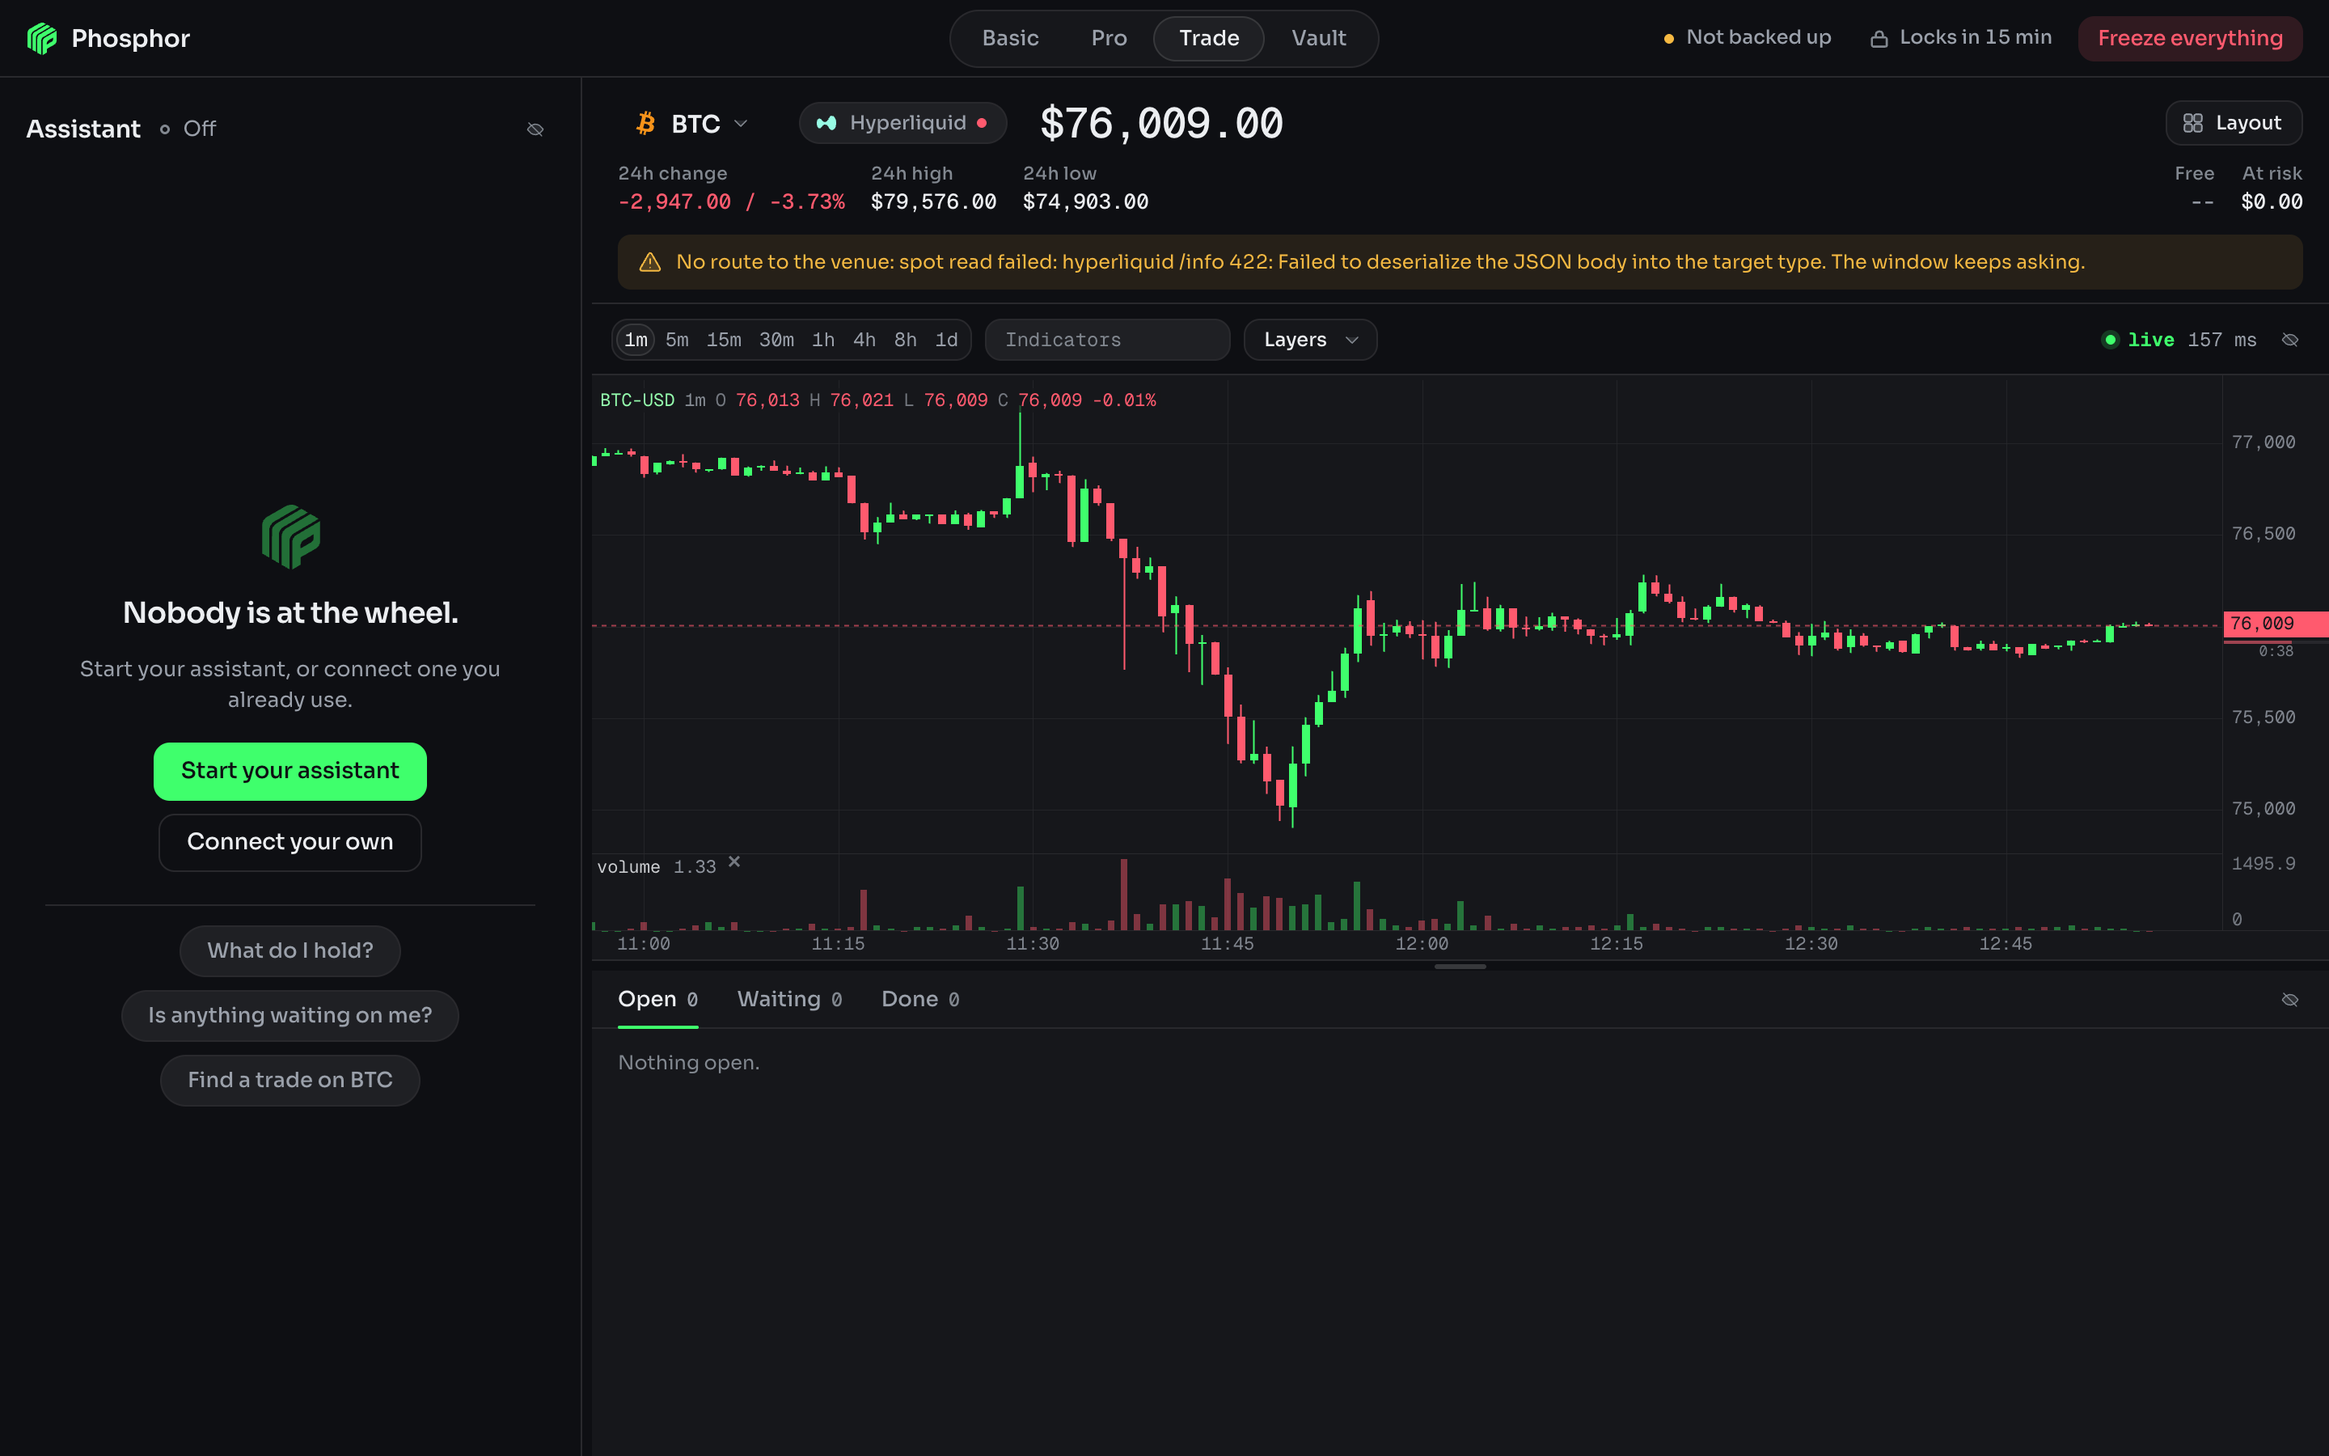
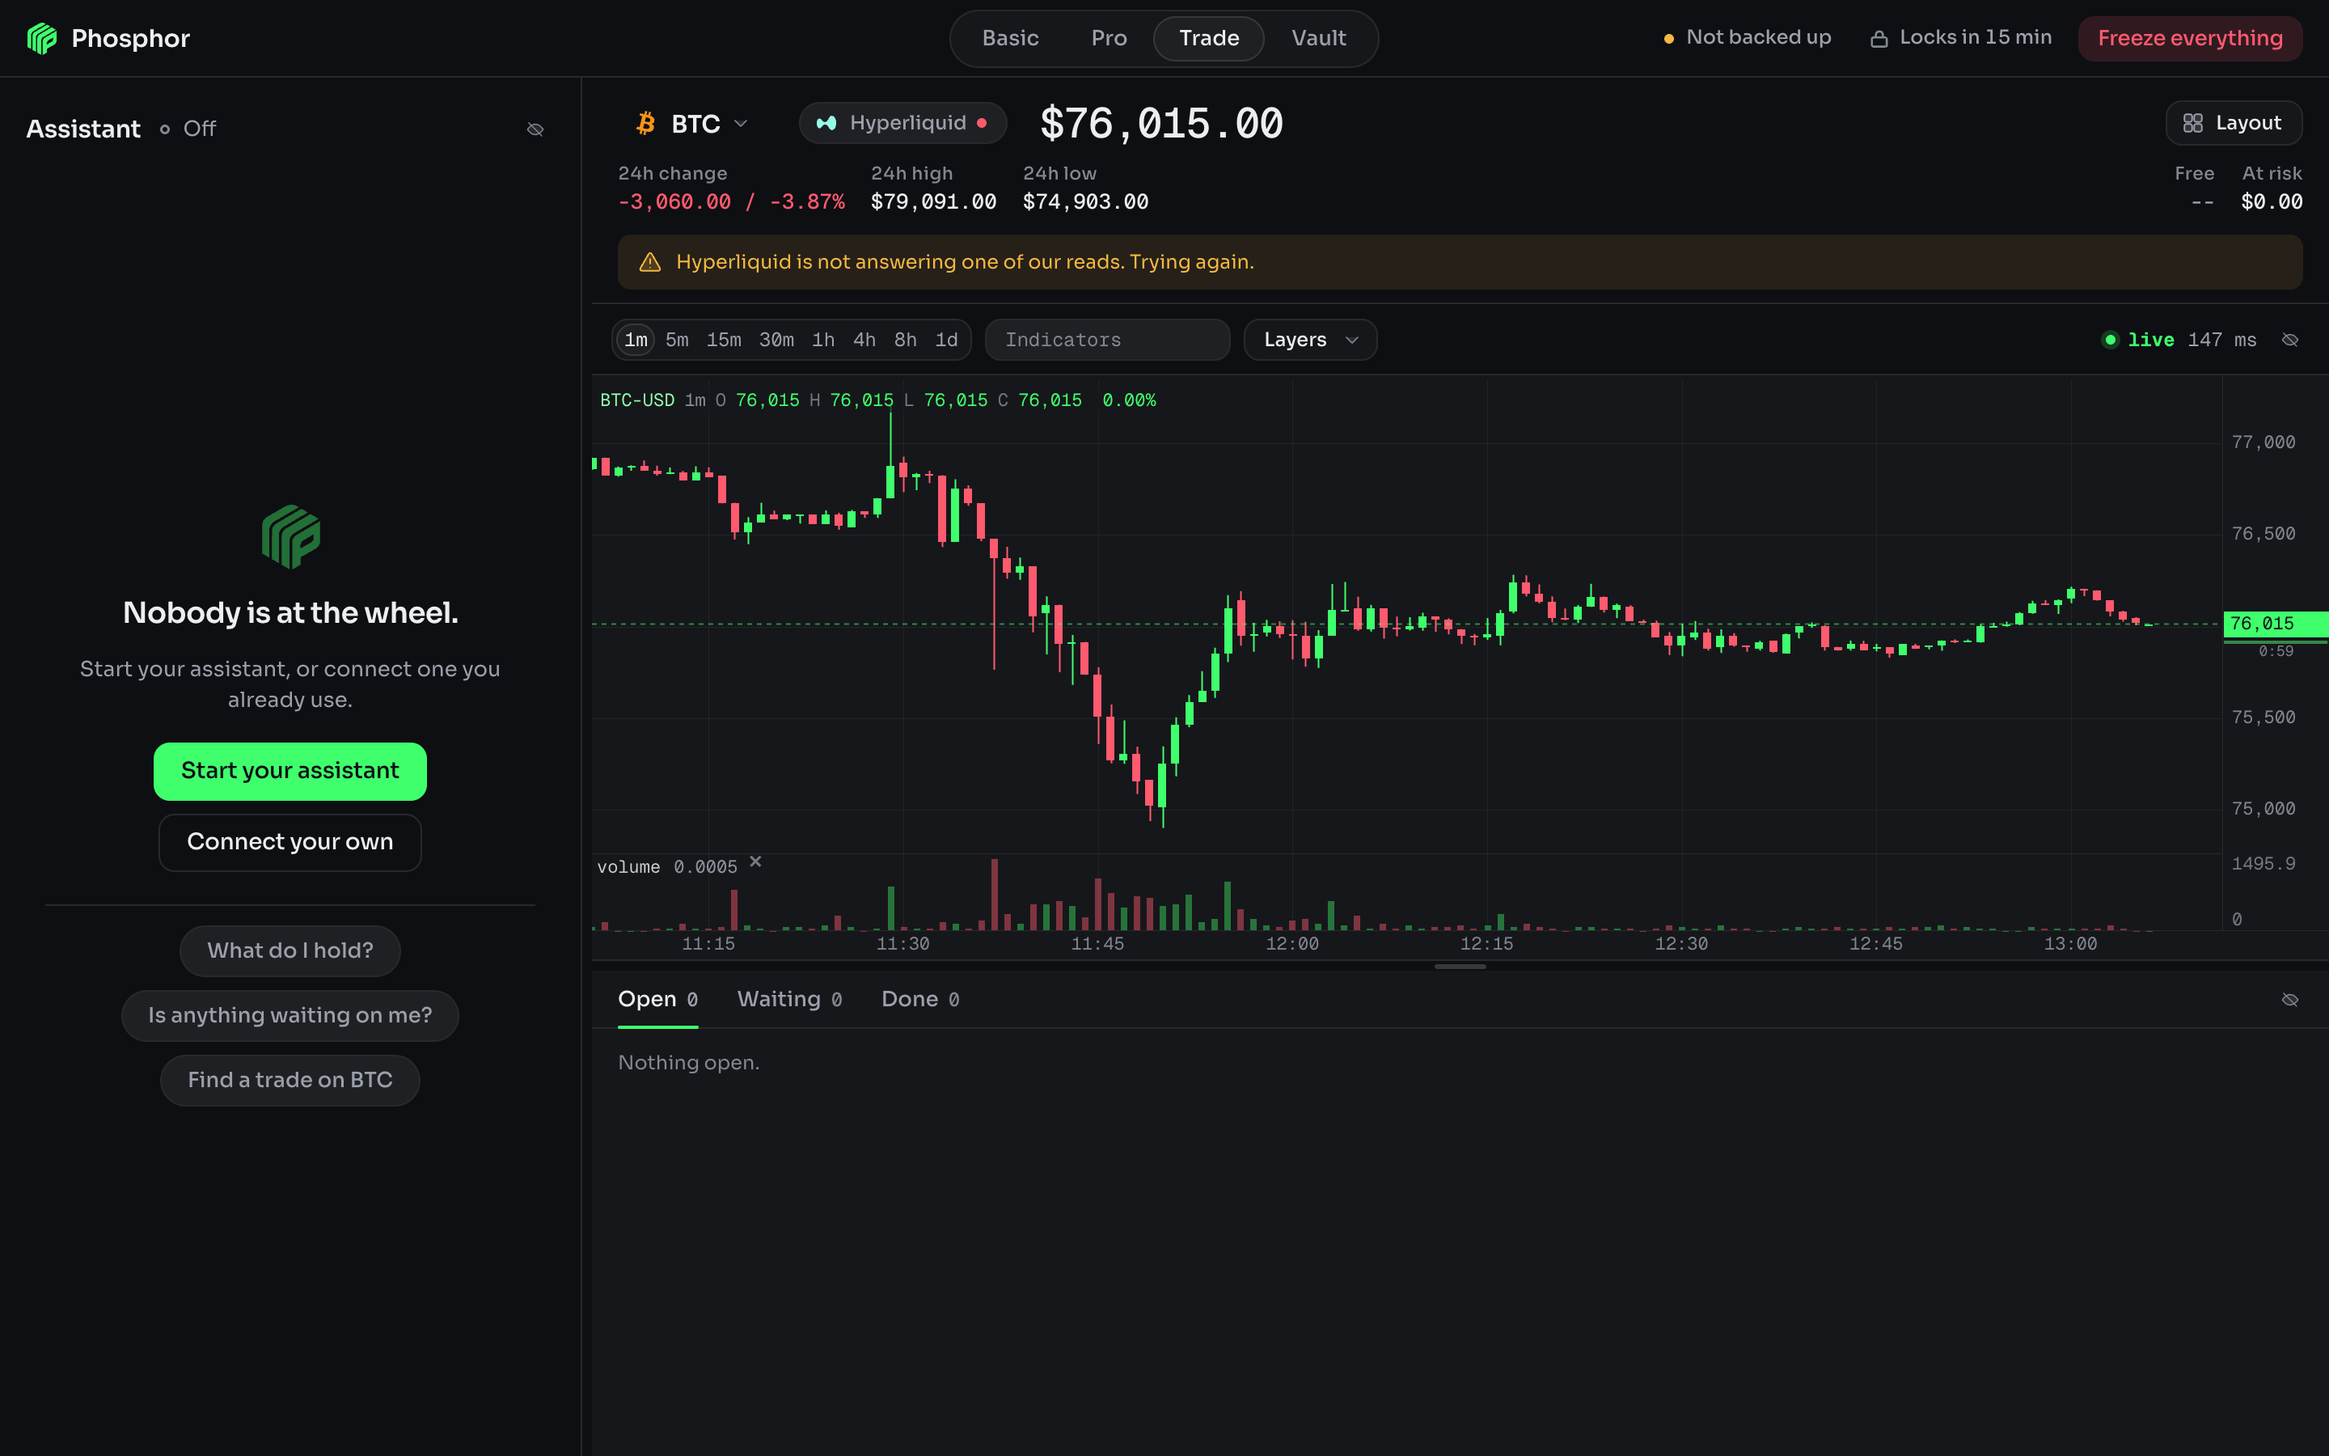
The venue notice says what is wrong in plain words and keeps the venue's own words behind the developer switch
The strip printed the feed's raw error ("spot read failed: hyperliquid /info
422: Failed to deserialize..."), which Karim read as scary debug output. Each
state has one plain sentence now: a shut socket says "Not connected to
Hyperliquid. Trying again.", an open socket with a failed read says
"Hyperliquid is not answering one of our reads. Trying again.", and a read
skipped for want of a wallet says "Nothing to read until a wallet exists."
in the quiet tone (keyed off the error's text until the feed carries a flag).
The raw words sit in a data-dev-only mono span under the sentence, on screen
only with the developer switch on. Tones and icons are unchanged.

diff --git a/tests/unit/trade-fills-ui.test.ts b/tests/unit/trade-fills-ui.test.ts
@@ -847,14 +847,17 @@ test('a market the payload does not price reads as unknown rather than as zero',
   assert.equal(withClass(host, 'trade-mark-price')[0].textContent, '--');
 });
 
-test('an unreachable venue says so rather than drawing its last numbers as current', async () => {
+test('an unreachable venue says so in plain words rather than drawing its last numbers as current', async () => {
+  // The sentence a person reads is plain; the venue's own words are there for the developer
+  // switch and nowhere else (Karim read the raw error as scary debug output, 2026-09-15).
   const data = flat();
   data.venue = { connected: false, source: 'none', ageMs: null, latencyMs: null, error: 'connect ECONNREFUSED', degraded: true };
-  const { lines } = await renderPayload(data);
-  assert.ok(
-    lines.some((l) => l.startsWith('No route to the venue') && l.includes('connect ECONNREFUSED')),
-    `the venue failed silently: ${JSON.stringify(lines)}`,
-  );
+  const { host, lines } = await renderPayload(data);
+  assert.ok(lines.includes('Not connected to Hyperliquid. Trying again.'), `the venue failed silently: ${JSON.stringify(lines)}`);
+  assert.ok(!lines.some((l) => l.startsWith('No route to the venue')), 'the old sentence is still there');
+  const [raw] = withClass(host, 'trade-line-raw');
+  assert.equal(raw.textContent, 'connect ECONNREFUSED');
+  assert.ok(raw.hasAttribute('data-dev-only'), 'the raw error is on screen without the developer switch');
 });
 
 test('the venue notice is drawn in the tone of the news: red with the link struck through for a shut socket, amber with a warning for an open one that errors', async () => {
@@ -862,6 +865,8 @@ test('the venue notice is drawn in the tone of the news: red with the link struc
   // ahead of the sentence (2026-09-15). A shut socket and an open socket that answers with an
   // error are different news and read differently; a wait is quiet; and with nothing to say
   // the row is gone rather than empty.
+  // The notice is [icon][sentence][raw]: the raw span carries the venue's own words behind
+  // the developer switch (data-dev-only) and is hidden outright while there are none.
   const shut = flat();
   shut.venue = { connected: false, source: 'none', ageMs: null, latencyMs: null, error: 'connect ECONNREFUSED', degraded: true };
   const a = await renderPayload(shut);
@@ -870,14 +875,32 @@ test('the venue notice is drawn in the tone of the news: red with the link struc
   assert.equal(down.dataset.tone, 'down');
   assert.equal(down.childNodes[0].dataset.icon, 'link-off', 'no drawn icon ahead of the sentence');
   assert.ok(down.childNodes[1].className.includes('trade-line-text'));
-  assert.ok(down.childNodes[1].textContent.startsWith('No route to the venue'));
+  assert.equal(down.childNodes[1].textContent, 'Not connected to Hyperliquid. Trying again.');
+  assert.ok(down.childNodes[2].className.includes('trade-line-raw'));
+  assert.ok(down.childNodes[2].hasAttribute('data-dev-only'), 'the raw words must wait for the developer switch');
+  assert.equal(down.childNodes[2].hidden, false);
+  assert.equal(down.childNodes[2].textContent, 'connect ECONNREFUSED');
 
   const erring = flat();
-  erring.venue = { connected: true, source: 'ws', ageMs: 40, latencyMs: 12, error: 'spot read failed: hyperliquid /info 422', degraded: false };
+  erring.venue = { connected: true, source: 'ws', ageMs: 40, latencyMs: 12, error: 'spot read failed: hyperliquid /info 422: Failed to deserialize the JSON body into the target type', degraded: false };
   const b = await renderPayload(erring);
   const [warn] = withClass(b.host, 'trade-line');
   assert.equal(warn.dataset.tone, 'warn');
   assert.equal(warn.childNodes[0].dataset.icon, 'warning');
+  assert.equal(warn.childNodes[1].textContent, 'Hyperliquid is not answering one of our reads. Trying again.');
+  assert.equal(warn.childNodes[2].textContent, 'spot read failed: hyperliquid /info 422: Failed to deserialize the JSON body into the target type');
+  assert.ok(!b.lines.some((l) => l.includes('422') && !l.startsWith('spot read failed')), 'the raw words leaked into the sentence');
+
+  // No wallet yet: the read was skipped, not refused, so it is a quiet wait. Keyed off the
+  // error's text until the feed carries it as a flag of its own.
+  const walletless = flat();
+  walletless.venue = { connected: true, source: 'ws', ageMs: 40, latencyMs: 12, error: 'spot read skipped: no wallet yet', degraded: false };
+  const w = await renderPayload(walletless);
+  const [wait] = withClass(w.host, 'trade-line');
+  assert.equal(wait.dataset.tone, undefined, 'no wallet is not a fault');
+  assert.equal(wait.childNodes[0].dataset.icon, 'waiting');
+  assert.equal(wait.childNodes[1].textContent, 'Nothing to read until a wallet exists.');
+  assert.equal(wait.childNodes[2].textContent, 'spot read skipped: no wallet yet');
 
   const reading = funded();
   reading.account = { ...reading.account, accountKnown: false, equityUsd: null, freeUsd: null, healthPct: null } as never;
@@ -885,12 +908,14 @@ test('the venue notice is drawn in the tone of the news: red with the link struc
   const [quiet] = withClass(c.host, 'trade-line');
   assert.equal(quiet.dataset.tone, undefined, 'a wait is not washed');
   assert.equal(quiet.childNodes[0].dataset.icon, 'waiting');
+  assert.equal(quiet.childNodes[2].hidden, true, 'a wait has no raw words to show');
 
   const d = await renderPayload(flat());
   const [gone] = withClass(d.host, 'trade-line');
   assert.equal(gone.hidden, true);
   assert.equal(gone.dataset.icon, undefined, 'the icon leaves with the sentence');
-  assert.equal(gone.childNodes.length, 1, 'only the empty text span stays');
+  assert.equal(gone.childNodes.length, 2, 'only the empty text and raw spans stay');
+  assert.equal(gone.childNodes[1].textContent, '');
 });
 
 test('an unreachable venue leaves the figures unknown rather than calling them empty', async () => {

diff --git a/ui/screens/trade.js b/ui/screens/trade.js
@@ -277,6 +277,14 @@
     line.hidden = true;
     var text = dom.el('span', 'trade-line-text');
     line.appendChild(text);
+    /* The venue's own words, under the sentence, for whoever has the
+       developer switch on: the plain sentence is what a person reads, the raw
+       error is jargon (Karim read it as scary debug output). Hidden until the
+       switch is on (devmode.css), and hidden outright while there is none. */
+    var raw = dom.el('span', 'trade-line-raw mono');
+    raw.setAttribute('data-dev-only', '');
+    raw.hidden = true;
+    line.appendChild(raw);
     strip.appendChild(line);
 
     refs.strip = strip;
@@ -286,6 +294,7 @@
     refs.low = low.value;
     refs.statusLine = line;
     refs.statusText = text;
+    refs.statusRaw = raw;
     refs.stats = stats;
     return strip;
   }
@@ -1005,17 +1014,23 @@
     var account = data && data.account;
 
     /* A venue that is not answering has not said the account is empty, it has
-       said nothing, and those are different sentences. So the line names the
-       venue's own words and the figures under it read as unknown rather than as
-       the empty state, which would be the window inventing a fact. A socket
-       that is shut is red with the link struck through; a socket that is open
-       and answering with an error is amber with a warning. */
+       said nothing, and those are different sentences. So the line says what
+       is wrong in plain words, keeps the venue's own words behind the
+       developer switch, and the figures under it read as unknown rather than
+       as the empty state, which would be the window inventing a fact. A
+       socket that is shut is red with the link struck through; a socket that
+       is open and answering with an error is amber with a warning; a read
+       skipped because there is no wallet yet is a quiet wait, keyed off the
+       error's text until the feed carries it as a flag of its own. */
     if (venueDown()) {
-      var shut = data.venue.connected === false;
-      statusLine(data.venue.error
-        ? 'No route to the venue: ' + data.venue.error + '. The window keeps asking.'
-        : 'No route to the venue. The window keeps asking.',
-        shut ? 'down' : 'warn', shut ? 'link-off' : 'warning');
+      var raw = data.venue.error ? String(data.venue.error) : '';
+      if (/no wallet/i.test(raw)) {
+        statusLine('Nothing to read until a wallet exists.', null, 'waiting', raw);
+      } else if (data.venue.connected === false) {
+        statusLine('Not connected to Hyperliquid. Trying again.', 'down', 'link-off', raw);
+      } else {
+        statusLine('Hyperliquid is not answering one of our reads. Trying again.', 'warn', 'warning', raw);
+      }
       renderFigures(account, true);
       return;
     }
@@ -1039,10 +1054,11 @@
   }
 
   /* The notice under the row. `tone` is the wash behind it (warn, down, or
-     none for a quiet wait), `iconName` the drawn icon ahead of the sentence.
-     The icon is swapped only when its name changes, so a line that is
-     repainted every tick keeps its node. Empty text takes the row away. */
-  function statusLine(text, tone, iconName) {
+     none for a quiet wait), `iconName` the drawn icon ahead of the sentence,
+     `raw` the venue's own words for the developer switch. The icon is swapped
+     only when its name changes, so a line that is repainted every tick keeps
+     its node. Empty text takes the row away. */
+  function statusLine(text, tone, iconName, raw) {
     var line = refs.statusLine;
     var name = text ? iconName : null;
     if ((line.dataset.icon || null) !== name) {
@@ -1051,8 +1067,11 @@
       if (name) line.insertBefore(icon(name, 'icon-16 trade-line-icon'), refs.statusText);
       dom.setAttr(line, 'data-icon', name);
     }
+    var words = text && raw ? String(raw) : '';
     dom.setAttr(line, 'data-tone', text ? tone : null);
     dom.setText(refs.statusText, text);
+    dom.setText(refs.statusRaw, words);
+    dom.setHidden(refs.statusRaw, !words);
     dom.setAttr(line, 'title', text || null);
     dom.setHidden(line, !text);
   }

diff --git a/scripts/scale-proof.ts b/scripts/scale-proof.ts
@@ -44,10 +44,11 @@ const SIZES = process.env.PROOF_SIZES
   : ALL_SIZES;
 const TABS = process.env.PROOF_TABS ? ALL_TABS.filter((t) => (process.env.PROOF_TABS as string).split(',').includes(t)) : ALL_TABS;
 
-// What the strip says when Hyperliquid refuses the account read, word for word as the window
-// builds it from the feed's own error (src/trade/feed-ws.ts readSpot).
-const VENUE_LINE =
-  'No route to the venue: spot read failed: hyperliquid /info 422: Failed to deserialize the JSON body into the target type. The window keeps asking.';
+// What the strip says when Hyperliquid refuses the account read: the plain sentence the
+// window shows, and the feed's own words (src/trade/feed-ws.ts readSpot) that sit behind the
+// developer switch.
+const VENUE_LINE = 'Hyperliquid is not answering one of our reads. Trying again.';
+const VENUE_RAW = 'spot read failed: hyperliquid /info 422: Failed to deserialize the JSON body into the target type';
 
 type Json = any;
 
@@ -128,16 +129,17 @@ async function createWallet(): Promise<void> {
 // The venue notice, forced onto the strip through the DOM the window builds for it. The
 // window's own path needs the feed to fail, which the demo venue never does; the picture only
 // needs the notice on screen.
-const FORCE_LINE = `(function (text) {
+const FORCE_LINE = `(function (text, raw) {
   var line = document.querySelector('.trade-strip .trade-line');
   if (!line) return false;
   var span = line.querySelector('.trade-line-text');
   if (span) span.textContent = text; else line.textContent = text;
+  var words = line.querySelector('.trade-line-raw');
+  if (words) { words.textContent = raw; words.hidden = false; }
   line.setAttribute('data-tone', 'warn');
-  line.classList.add('warn');
   line.hidden = false;
   return true;
-})(${JSON.stringify(VENUE_LINE)})`;
+})(${JSON.stringify(VENUE_LINE)}, ${JSON.stringify(VENUE_RAW)})`;
 
 // What the eye cannot check from a picture alone: any box wider than the window (a sideways
 // scroll), the chart's height, and whether the composer is on screen.

diff --git a/ui/design/trade.css b/ui/design/trade.css
@@ -336,8 +336,9 @@ body[data-view="trade"] .stage {
    into it. Nothing is reserved for it; the chart under the strip flexes. */
 .trade-strip .trade-line {
   display: flex;
+  flex-wrap: wrap;
   align-items: flex-start;
-  gap: var(--s-2);
+  gap: 2px var(--s-2);
   margin: 0 var(--s-4) var(--s-2);
   padding: var(--s-2) var(--s-3);
   border-radius: 8px;
@@ -355,8 +356,22 @@ body[data-view="trade"] .stage {
   color: var(--text-3);
 }
 
+/* The sentence takes the rest of the icon's line and wraps inside it. */
 .trade-line .trade-line-text {
+  flex: 1 1 0;
   min-width: 0;
+  overflow-wrap: anywhere;
+}
+
+/* The venue's own words, on a line of their own under the sentence and past
+   the icon, in the quiet mono of a detail: on screen only with the developer
+   switch on (devmode.css), and gone outright while there are none. */
+.trade-line .trade-line-raw {
+  flex: 1 0 100%;
+  margin-left: 24px;
+  font-size: var(--fs-11);
+  line-height: 16px;
+  color: var(--text-3);
   overflow-wrap: anywhere;
 }
 
